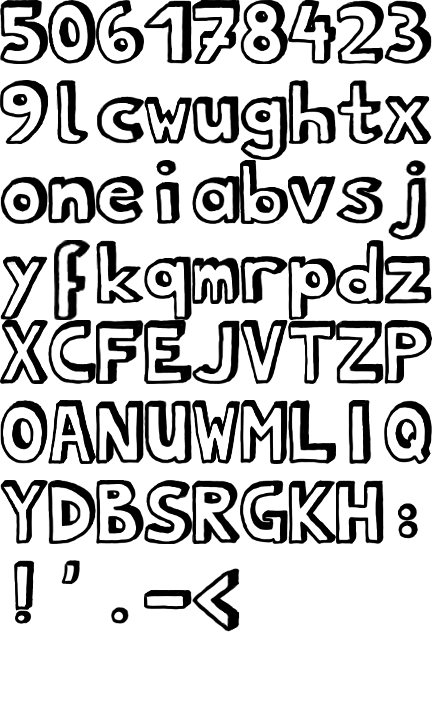
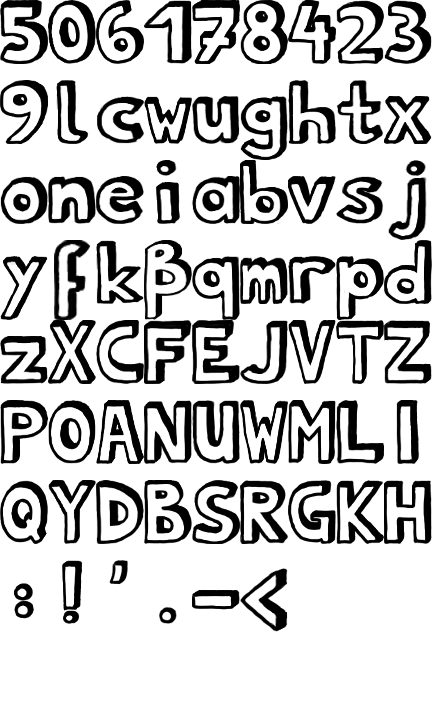
Include sharp s

Changed region(s): [[0.0, 0.3361, 1.0, 0.8861]]

diff --git a/src/states/GameOver.js b/src/states/GameOver.js
@@ -105,8 +105,8 @@ doodleBreakout.GameOver.prototype.create = function(){
 };
 
 doodleBreakout.GameOver.prototype.keyPressed = function(key) {
-    // TODO: Add ÄÖÜ äöü ß to font
-    if(! key.match(/[A-z0-9\u0020\-]/) ) {
+    // TODO: Add ÄÖÜ äöüto font
+    if(! key.match(/[A-z0-9ß\u0020\-]/) ) {
         return;
     }
 
